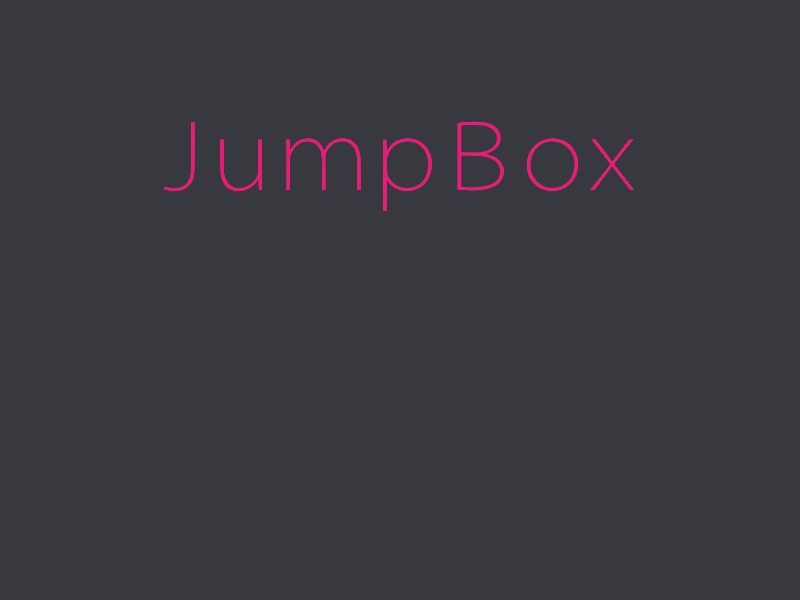
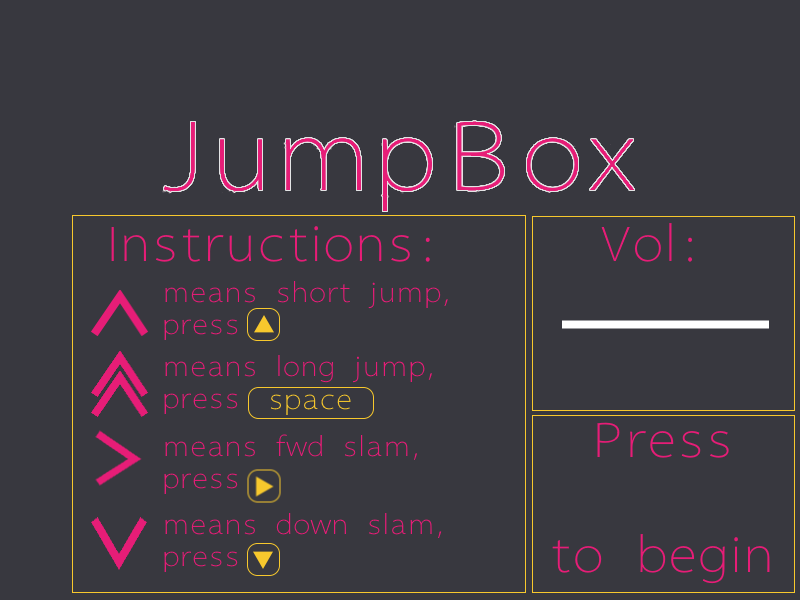
push to move machines, audio and landing wip
WIP audio and landing.
update to level

diff --git a/landingscreen.js b/landingscreen.js
@@ -1,3 +1,5 @@
+var globalVol = 0.2;
+
 // state to display instructions and a play button
 var TitleScreen = new Phaser.Class({
   Extends: Phaser.Scene,
@@ -7,118 +9,34 @@ var TitleScreen = new Phaser.Class({
   init: function() {},
   preload:function(){
     this.load.image("demo_instruct","demo_instruct.png");//800x600
-    // this.load.image("ground","ground.png"); //150x100
+    this.load.image("dot","vol_slider_knob.png"); //20x20
+    this.load.audio("track1","walkingwithswagger.mp3")
     // //this.load.image("chest","chest.png");//16x13
     // //this.load.image("ladder","ladder.png");//16x48
     // this.load.spritesheet("king", "dude.png", { frameWidth: 17, frameHeight: 23 });
   },
   create:function(){
-    // for (let i = 0; i<36;i++) {
-    //   this.add.image(500+1000*i,300,"bg"); //1000x600
-    // } // all phaser images are positioned by their center
-    // //camera 
-    // this.cameras.main.setSize(800, 600);
-    // const cam = this.cameras.add(0, 0, 800, 600);
-    // // use . setOrigin after .image >> .setOrigin(0,0)
-    // // phaser builds in order, so top image last
-    // console.log("hi im state1");
-    // this.physics.world.setFPS(fps);
-    // platforms = this.physics.add.staticGroup();
-    // for (let i = 0; i<240;i++) {
-    //   platforms.create(75+i*150,350,"ground");
-    // }
-    // platforms.create(1690,330,"ground"); // test short hop
-    // platforms.create(3265,285,"ground"); // test long hop
-    // //platforms.create(x,y,"tag");//.setScale(2).refreshBody(); // setScale doubles size, need .refreshBody because we've changed a static body
-    // console.log("map scene1 made");
-    // player = this.physics.add.sprite(150,250,"king");
-    // player.setBounce(0.2);
-    // player.setCollideWorldBounds(false);
-    // this.anims.create({
-    //   key: 'right',
-    //   frames: this.anims.generateFrameNumbers("king", {start:0, end:3}),
-    //   frameRate: 10,
-    //   repeat: -1
-    // });
-    // this.anims.create({
-    //   key: 'turn',
-    //   frames: [{key:"king", frame: 4}],
-    //   frameRate: 20
-    // });
-    // this.anims.create({
-    //   key: 'left',
-    //   frames: this.anims.generateFrameNumbers("king", {start:5, end:8}),
-    //   frameRate: 10,
-    //   repeat: -1
-    // });
-    // this.anims.create({
-    //   key: 'slam',
-    //   frames: [{key:"king", frame: 10}],
-    //   frameRate: 20
-    // });
-    // this.anims.create({
-    //   key: 'down',
-    //   frames: [{key:"king", frame: 11}],
-    //   frameRate: 20
-    // });
-    // player.body.setGravityY(200);
-    // this.physics.add.collider(player, platforms);
-    // cam.startFollow(target=player, roundPixels=false, lerpX=0.5, lerpY=0.5, offsetX=-280, offsetY=150);
-    // //cam.startFollow(player); // most basic version of camera
-    // cursors = this.input.keyboard.createCursorKeys();
-    // scoreText = this.add.text(16, 16, 'score: 0', { fontSize: '32px', fill: '#FFF' });
-    // beatText = this.add.text(16, 48, 'X', { fontSize: '32px', fill: '#FFF' });
-    // player_last_x = player.x;
+    this.add.image(400,300,"demo_instruct"); //800x600
+    var volKnob = this.add.sprite(600,324,"dot");
+    volKnob.inputEnabled = true;
+    volKnob.input.enableDrag(true);
+    var bgTrack = this.sound.add("track1",{volume: globalVol});
   },
   update:function(){
-  //   player.setVelocityX(hero_move);
-  //   player.anims.play('right', true);
-    
-  //   if (cursors.up.isDown && player.body.touching.down) // short hop, results in 288.5-261.611111111111
-  //   {
-  //     player.anims.play('turn', true);
-  //     player.setVelocityY(-150);
-  //     console.log(`jumpStart:${player.x}`); //DEV // 4550 >  4665
-  //   }
-  //   else if (cursors.space.isDown && player.body.touching.down) // tall hop, results in 288.5-212.44444444444437
-  //   {
-  //     player.anims.play('turn', true);
-  //     player.setVelocityY(-250);
-  //     console.log(`jumpStart:${player.x}`); //DEV // 14785 > 14975
-  //   }
-  //   else if (cursors.right.isDown) // slam
-  //   {
-  //     player.anims.play('slam', false);
-  //     //this.add.image(player.x,player.y,"slam"); 
-  //   }
-  //   else if (cursors.down.isDown) // drop
-  //   {
-  //     player.anims.play('down', false);
-  //     //this.add.image(player.x,player.y,"down"); 
-  //   }
-  //   // counting beats
-  //   beat_counter += 1;
-  //   if (beat_counter==30) {
-  //     beatText.setText('O');
-  //     beat_counter = 0;
-  //     console.log(`dX:${player.x - player_last_x}`); // this is a temporary visual for dev
-  //     //`Fifteen is ${five + ten} and not ${2 * five + ten}.`
-  //     player_last_x = player.x;
-  //   } else {
-  //     beatText.setText('X');
-  //   }
-  //   // dev testing
-  //   if(player.y < player_max_y && player.x > 450) {
-  //     player_max_y = player.y;
-  //     console.log(`maxY:${player.y},currX:${player.x}`);
-  //   }
-  //   if(player.x > 5000) {
-  //     player.x = 500;
-  //     console.log("loop at 5k reached");
-  //   }
+    if (cursors.r.isDown)
+    {
+      console.log(this.scene.get('SceneOne'));
+      this.scene.start("SceneOne");
+    }
   }
 });
 
+//https://phaser.io/examples/v3/view/audio/html5-audio/basic-playback-and-events
+//https://phaser.io/examples/v2/input/drag
+//https://phaser.discourse.group/t/audio-management/5235/2
+//https://stackoverflow.com/questions/51601926/how-to-set-volume-in-phaser-3
+//https://newdocs.phaser.io/docs/3.55.2/Phaser.Sound.Events.LOOP
+//https://phaser.io/examples/v3/view/audio/web-audio/play-sound-on-keypress
 // if (score == 120) {
 //   console.log(this.scene.get('SceneTwo'));
 //   this.scene.start("SceneTwo");

diff --git a/state1.js b/state1.js
@@ -168,59 +168,89 @@ function buildStage1()
   platforms.create(450,330,"ground");
   platforms.create(750,285,"ground");
   platforms.create(1050,330,"ground");
-  platforms.create(1200,310,"ground");
-  platforms.create(1350,290,"ground");
-  platforms.create(1500,270,"ground");
-  platforms.create(1800,285,"ground");
-  platforms.create(2100,220,"ground");
+  platforms.create(1350,310,"ground");
+  platforms.create(1500,290,"ground");
+  platforms.create(1800,270,"ground");
+  platforms.create(2100,285,"ground");
   platforms.create(2550,330,"ground");
   platforms.create(2850,330,"ground");
-  platforms.create(3000,265,"ground");
   platforms.create(3300,330,"ground");
-  platforms.create(3450,330,"ground");
   platforms.create(3600,310,"ground");
-  platforms.create(3750,290,"ground");
-  platforms.create(3900,270,"ground");
-  platforms.create(4050,250,"ground");
+  platforms.create(3825,290,"ground");
   platforms.create(4350,285,"ground");
-  platforms.create(4650,220,"ground");
+  platforms.create(4650,200,"ground");
   platforms.create(4950,155,"ground");
   platforms.create(5550,330,"ground");
-  platforms.create(5700,330,"ground");
   platforms.create(6300,330,"ground");
   platforms.create(7200,285,"ground");
   platforms.create(7500,265,"ground");
   platforms.create(8400,330,"ground");
-  platforms.create(8550,265,"ground");
   platforms.create(8700,330,"ground");
   platforms.create(9600,330,"ground");
   platforms.create(9900,330,"ground");
-  platforms.create(10050,310,"ground");
-  platforms.create(10200,245,"ground");
+  platforms.create(10125,310,"ground");
   platforms.create(10500,330,"ground");
-  platforms.create(10650,285,"ground");
-  platforms.create(10800,265,"ground");
+  platforms.create(10725,285,"ground");
   platforms.create(11100,330,"ground");
-  platforms.create(11250,310,"ground");
   platforms.create(11400,290,"ground");
-  platforms.create(11550,270,"ground");
-  platforms.create(11700,250,"ground");
-  platforms.create(11850,230,"ground");
+  platforms.create(11700,330,"ground");
   platforms.create(12000,210,"ground");
   platforms.create(12900,285,"ground");
   platforms.create(13800,285,"ground");
   platforms.create(14700,285,"ground");
   platforms.create(15000,330,"ground");
-  platforms.create(15150,310,"ground");
-  platforms.create(15300,245,"ground");
+  platforms.create(15300,310,"ground");
   platforms.create(15900,330,"ground");
   platforms.create(16200,330,"ground");
   platforms.create(16500,285,"ground");
   platforms.create(16800,330,"ground");
-  platforms.create(16950,310,"ground");
-  platforms.create(17100,290,"ground");
-  platforms.create(17250,270,"ground");
-  platforms.create(17400,250,"ground");
+  platforms.create(17025,310,"ground");
+  platforms.create(17400,330,"ground");
+  platforms.create(17700,285,"ground");
+  platforms.create(450,330,"ground");
+  platforms.create(750,285,"ground");
+  platforms.create(1050,330,"ground");
+  platforms.create(1350,310,"ground");
+  platforms.create(1500,290,"ground");
+  platforms.create(1800,270,"ground");
+  platforms.create(2100,285,"ground");
+  platforms.create(2550,330,"ground");
+  platforms.create(2850,330,"ground");
+  platforms.create(3300,330,"ground");
+  platforms.create(3600,310,"ground");
+  platforms.create(3825,290,"ground");
+  platforms.create(4350,285,"ground");
+  platforms.create(4650,200,"ground");
+  platforms.create(4950,155,"ground");
+  platforms.create(5550,330,"ground");
+  platforms.create(5950,200,"ground");
+  platforms.create(6300,330,"ground");
+  platforms.create(7200,285,"ground");
+  platforms.create(7500,265,"ground");
+  platforms.create(8400,330,"ground");
+  platforms.create(8700,330,"ground");
+  platforms.create(9150,200,"ground");
+  platforms.create(9600,330,"ground");
+  platforms.create(9900,330,"ground");
+  platforms.create(10125,310,"ground");
+  platforms.create(10500,330,"ground");
+  platforms.create(10725,285,"ground");
+  platforms.create(11100,330,"ground");
+  platforms.create(11400,290,"ground");
+  platforms.create(11700,330,"ground");
+  platforms.create(12000,210,"ground");
+  platforms.create(12450,200,"ground");
+  platforms.create(12900,285,"ground");
+  platforms.create(13800,285,"ground");
+  platforms.create(14700,285,"ground");
+  platforms.create(15000,330,"ground");
+  platforms.create(15300,310,"ground");
+  platforms.create(15900,330,"ground");
+  platforms.create(16200,330,"ground");
+  platforms.create(16500,285,"ground");
+  platforms.create(16800,330,"ground");
+  platforms.create(17025,310,"ground");
+  platforms.create(17400,330,"ground");
   platforms.create(17700,285,"ground");
   
 }
